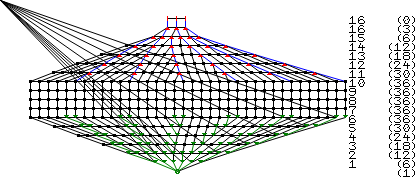
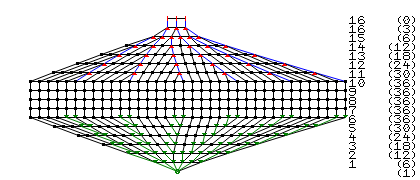
fixed allocation issues...

diff --git a/main.cpp b/main.cpp
@@ -15,6 +15,16 @@
 
 #define LOG(fmt, ...) fprintf(stderr, "%s@%s:%d: " fmt "\n", __func__, __FILE__, __LINE__ __VA_OPT__(,) __VA_ARGS__);
 
+#define ACTUAL_TRAP_INSTRUCTION __asm("int3")
+// usage: DEBUGGER(if(x == 4));
+//   or:
+//        DEBUGGER(auto potato = get_potato(); if(potato.Invariant()));
+#define DEBUGGER(CODE) do{\
+    CODE { \
+        ACTUAL_TRAP_INSTRUCTION;\
+    } \
+}while(0)
+
 using namespace std::literals;
 
 static MapEntry connectingStitch;
@@ -165,6 +175,11 @@ struct Row
     size_t CountRenderable() {
         return std::accumulate(stitches.begin(), stitches.end(), size_t(0), [](size_t acc, decltype(stitches)::const_reference e) -> size_t {
                 return acc + e.puts * size_t(e.IsNormal() || e.IsSlipped() || e.IsBoundOff());
+                });
+    }
+    size_t CountLiterallyAllPuts() {
+        return std::accumulate(stitches.begin(), stitches.end(), size_t(0), [](size_t acc, decltype(stitches)::const_reference e) -> size_t {
+                return acc + e.puts;
                 });
     }
 };
@@ -379,7 +394,6 @@ int main(int argc, char* argv[])
     std::vector<Row> rows;
     // reversed = true means go left to right, = false means right to left
     bool reversed = true;
-    size_t longest = 0; // FIXME count this by reducing "puts"
     int rowNumber = 0;
     int sourceLineNumber = 1;
     size_t previousLineLength = 0;
@@ -425,7 +439,7 @@ int main(int argc, char* argv[])
 
         rows.push_back(ll);
         previousLineLength = thisLen;
-        if(ll.CountRenderable() > longest) longest = ll.CountRenderable();
+
     }
 
     LOG("Read %zd rows of stitching instructions", rows.size());
@@ -490,6 +504,14 @@ int main(int argc, char* argv[])
         previousLineLength = rows[i].CountStitchable();
     }
 
+
+    size_t longest = 0;
+    for(int i = 1; i < rows.size(); ++i) {
+        if(auto allPuts = rows[i].CountLiterallyAllPuts();
+                allPuts > longest)
+            longest = allPuts;
+    }
+
     LOG("Instructions (simplified):");
     LOG("   + &     increase area");
     LOG("   v .     decrease area");
@@ -523,6 +545,34 @@ int main(int argc, char* argv[])
     }
     LOG("");
 
+    LOG("Instructions:");
+    for(int i = 0; i < rows.size(); ++i)
+    {
+        auto& ll = rows[i];
+        fprintf(stderr, "%3d: %c   ", ll.number, ll.reversed ? '>' : ' ');
+        auto it = ll.First(!ll.reversed);
+        while(it) {
+            if(it->takes > it->puts) {
+                int i = 0;
+                for(; i < it->puts; ++i)  fprintf(stderr, "%s&", it->key);
+                for(; i < it->takes; ++i) fprintf(stderr, ". ");
+            }
+            else if(it->takes < it->puts) {
+                int i = 0;
+                for(; i < it->takes; ++i) fprintf(stderr, "%s&", it->key);
+                for(; i < it->puts; ++i)  fprintf(stderr, "%s ", it->key);
+            }
+            else if(it->IsSlipped()) { for(int i = 0; i < it->takes; ++i) fprintf(stderr, "%s ", it->key); }
+            else if(it->IsBoundOff()) { for(int i = 0; i < it->takes; ++i) fprintf(stderr, "%s ", it->key); }
+            else {
+                for(int i = 0; i < it->puts; ++i) fprintf(stderr, "%s ", it->key);
+            }
+            ++it;
+        }
+        fprintf(stderr, "\t%c\t\t(@%d)\n", ll.reversed ? ' ' : '<', ll.srcLine);
+    }
+    LOG("");
+
     LOG("Populating graph");
     // iterate over row stitches starting with logical coordinates (0,0)
     // for each new produced stitch, increase X coord by incr*9
@@ -537,7 +587,9 @@ int main(int argc, char* argv[])
     int previ = 0, previncr = +1;
     for(int rowy = 0; rowy < rows.size(); ++rowy)
     {
+        LOG("=============================");
         LOG("Populating row %d", rowy);
+        LOG("=============================");
         // current row
         auto& row = rows[rowy];
         int curri = 0;
@@ -548,11 +600,19 @@ int main(int argc, char* argv[])
         auto it = row.First(false);
         LOG("Direction: %s", row.reversed ? "left-to-right" : "right-to-left");
         while(it) {
-            LOG("Stitching at %d (%d x %d) which is a %s", curri, xcoord, ycoord, it->key);
+            LOG("-----------------------------------------------");
+            LOG("Stitching at curri=%d (%d x %d) which is a %s", curri, xcoord, ycoord, it->key);
             LOG("        it at=%d incr=%d", it.at, it.incr);
+            LOG("        xcoord = %d", xcoord);
+            if(rowy > 0) {
+                LOG("        The previous row has %d (or %d) stitches left, previ = %d", numDots[rowy - 1] - previ, previ, previ);
+            }
             if(it->IsNormal() || it->IsBoundOff()) {
+                LOG("    normal/boundoff");
                 for(int ii = 0; ii < it->puts; ++ii) {
+                    LOG("    putting %d at %d", ii, curri);
                     auto& dot = rowdots[curri++];
+                    LOG("         curri now past the end at %d", curri);
                     dot.x = xcoord;
                     dot.y = ycoord;
                     dot.skip = false;
@@ -564,14 +624,25 @@ int main(int argc, char* argv[])
                         if(ii == 0 && (it - 1)->IsNormal() || (it - 1)->IsBoundOff()
                                 || ii > 0)
                         {
-                            auto& prevDot = rowdots[curri - 2 - ii];
+                            //LOG("...connecting to %d", curri - 2 - ii);
+                            //auto& prevDot = rowdots[curri - 2 - ii];
+                            LOG("...connecting to %d", curri - 2);
+                            auto& prevDot = rowdots[curri - 2];
                             dot.lines.emplace_back();
                             dot.lines.back().dotRef = &prevDot;
+                            dot.lines.back().otherDotRef = nullptr;
                             dot.lines.back().lineInfo = &connectingStitch;
+                        }
+                        else
+                        {
+                            first = false;
+                            dot.disconnected = true;
+                            LOG("disconnected");
                         }
                     } else {
                         first = false;
                         dot.disconnected = true;
+                        LOG("disconnected");
                     }
 
                     // update xcoord
@@ -590,6 +661,8 @@ int main(int argc, char* argv[])
                 }
                 int lutme[9];
                 int lutprev[9] = { previ - previncr, previ };
+                memset(lutme, 255, 9 * sizeof(int));
+                memset(lutprev + 2, 255, 7 * sizeof(int));
                 if(rowy > 0) {
                     while(lutprev[0] >= 0 && lutprev[0] < numDots[rowy - 1] && !dots[rowy - 1][lutprev[0]].stitchRef->IsCountable()) { lutprev[0] = lutprev[0] + previncr; lutprev[1] = lutprev[0] + previncr; }
                     while(lutprev[1] >= 0 && lutprev[1] < numDots[rowy - 1] && !dots[rowy - 1][lutprev[1]].stitchRef->IsCountable()) lutprev[1] = lutprev[1] + previncr;
@@ -597,11 +670,13 @@ int main(int argc, char* argv[])
                 // for the previous row, we advance previ in our iterator's direction
                 for(int i = 0; i < it->takes; ++i) {
                     // skip boundoffs or skips or whatnot
-                    while(previ > 0 && previ < numDots[rowy - 1] - 1 && !dots[rowy - 1][previ].stitchRef->IsCountable()) previ = previ + previncr;
+                    while(previ >= 0 && previ < numDots[rowy - 1] && !dots[rowy - 1][previ].stitchRef->IsCountable()) previ = previ + previncr;
                     lutprev[i] = previ;
+                    LOG("    taking %d/%d at previ %d", i, it->takes, previ);
                     previ = previ + previncr;
                 }
                 if(it->takes > 0) {
+                    LOG("    adding one lutprev past-the-post");
                     lutprev[it->takes] = lutprev[it->takes - 1] + previncr;
                     if(rowy > 0) {
                         while(lutprev[it->takes] >= 0 && lutprev[it->takes] < numDots[rowy - 1] && !dots[rowy - 1][lutprev[it->takes]].stitchRef->IsCountable()) { lutprev[it->takes] = lutprev[it->takes] + previncr;}
@@ -612,22 +687,34 @@ int main(int argc, char* argv[])
                 for(int i = 0; i < it->puts; ++i) {
                     lutme[i] = curri - it->puts + i;
                 }
+                LOG("    lutme: %d %d %d %d ...", lutme[0], lutme[1], lutme[2], lutme[3]);
+                LOG("    lutprev: %d %d %d %d ...", lutprev[0], lutprev[1], lutprev[2], lutprev[3]);
 
+                LOG("     .....");
+                LOG("     Lining to previous row, per stitch map")
                 // construct lines to previous row
                 for(auto&& me : it->map) {
+                    LOG("     line: %d <= %d", me.dst, me.src);
                     auto& dstDot = rowdots[lutme[me.dst]];
                     dstDot.lines.emplace_back();
                     dstDot.lines.back().lineInfo = &me;
                     if(me.src != MapEntry::INBETWEEN) {
                         dstDot.lines.back().dotRef = dots[rowy - 1][lutprev[me.src]].dotRef;
+                        dstDot.lines.back().otherDotRef = nullptr;
+                        LOG("         which is a %s", dstDot.lines.back().dotRef->stitchRef->key);
                     } else {
                         LOG("INBETWEEN");
                         dstDot.lines.back().dotRef = dots[rowy - 1][lutprev[0]].dotRef;
                         dstDot.lines.back().otherDotRef = dots[rowy - 1][lutprev[1]].dotRef;
+                        dstDot.connectedTo.push_back(dstDot.lines.back().dotRef);
+                        dstDot.connectedTo.push_back(dstDot.lines.back().otherDotRef);
                     }
-                    LOG("Stitching (%d,%d) -> (%d,%d)", rowy, lutme[me.dst], rowy-1, lutprev[me.src]);
+                    LOG("     Stitching (%d,%d) -> (%d,%d)", rowy, lutme[me.dst], rowy-1, lutprev[me.src]);
+                    LOG("    ....");
                 }
 
+                LOG("     .....");
+                LOG("     Connecting to previous row, per takes and puts");
                 // connect to previous row
                 for(int i = 0; i < it->puts; ++i) {
                     auto& dot = rowdots[lutme[i]];
@@ -636,9 +723,16 @@ int main(int argc, char* argv[])
                         LOG("Linking (%d,%d) -> (%d,%d)", rowy, lutme[i], rowy-1, lutprev[j]);
                     }
                 }
+                LOG("     .....");
             } else if(it->IsSlipped()) {
+                LOG("    slipped/padding");
                 // take from previous row
                 for(int i = 0; i < it->takes; ++i) {
+                    LOG("    taking %d at %d", i, curri);
+                    if(curri >= rowdots.size()) {
+                        LOG("curri = %d   rowdots.size() = %zd", curri, rowdots.size());
+                        abort();
+                    }
                     auto& dot = rowdots[curri++];
                     dot.x = xcoord;
                     dot.y = ycoord;
@@ -649,6 +743,8 @@ int main(int argc, char* argv[])
                         // skip bindoffs or skips
                         while(!dots[rowy - 1][previ].stitchRef->IsCountable()) previ = previ + previncr;
                         dot.dotRef = dots[rowy - 1][previ].dotRef;
+                        LOG("    connecting to previ %d", previ);
+                        LOG("         which is a %s", dot.dotRef->stitchRef->key);
                         previ = previ + previncr;
                     } else {
                         dot.dotRef = &dot;
@@ -670,6 +766,7 @@ int main(int argc, char* argv[])
         // update previous row iterator;
         if(rowy < rows.size() - 1) {
             if(rows[rowy].turn) {
+                LOG("we turn!");
                 previ = curri - 1;
                 previncr = -1;
                 // skip bindoffs
@@ -677,6 +774,7 @@ int main(int argc, char* argv[])
                 xcoord = dots[rowy][numDots[rowy] - 1].x;
                 dxcoord = -dxcoord;
             } else {
+                LOG("we go around!");
                 xcoord = 0;
                 previ = 0;
                 previncr = +1;
@@ -839,6 +937,7 @@ int main(int argc, char* argv[])
     exit(0);
 
 
+#if 0
     // TODO new code above this line, purge remaining dead code
     //auto hcanvas = initCanvas(3 * 9 + longest * 9 + 3 * 9 + 5 * 9, (rows.size() + 3) * 9);
 
@@ -972,4 +1071,5 @@ int main(int argc, char* argv[])
     } // for each line
 
     return 0;
+#endif
 }

diff --git a/stitches.h b/stitches.h
@@ -49,7 +49,6 @@ static std::vector<Stitch> STITCHES {
             "-", "(blank)", Stitch::P,
             1, 1,
         },
-#if 0
             // TODO support breaking (for vertical holes, split back, etc)
             // however, this requires some shenanigans in the layouting code
             // as separate sections don't have a stitch between them to pull them,
@@ -59,7 +58,6 @@ static std::vector<Stitch> STITCHES {
             "/", "(break; unconnected to previous stitch)", Stitch::BREAK,
             0, 0,
         },
-#endif
         {
             "pu", "pick up / slip", Stitch::N,
             1, 1,

diff --git a/samples/README.md b/samples/README.md
@@ -26,3 +26,41 @@ ch 1 turn
 
 ![samples/ball.png](ball.png)
 
+# edge
+
+```
+- 5 co 8 turn
+1: pu 1 k 2 yo 1 k2tog 1 k 1 yo 2 k 2 - 3 turn
+2: - 3 pu 1 k 2 p 1 k 3 yo 1 k2tog 1 k 1 turn
+3: pu 1 k 2 yo 1 k2tog 1 k 5 - 3 turn
+4: - 3 pu 1 k 6 yo 1 k2tog 1 k 1 turn
+5: pu 1 k 2 yo 1 k2tog 1 k 1 yo 2 k2tog 1 yo 2 k 2 turn
+6: pu 1 k 2 p 1 k 2 p 1 k 3 yo 1 k2tog 1 k 1 turn
+7: pu 1 k 2 yo 1 k2tog 1 k 8 turn
+8: bo 5 pu 1 k 4 yo 1 k2tog 1 k 1 turn
+
+second rep:
+pu 1 k 2 yo 1 k2tog 1 k 1 yo 2 k 2 - 3 turn
+- 3 pu 1 k 2 p 1 k 3 yo 1 k2tog 1 k 1 turn
+pu 1 k 2 yo 1 k2tog 1 k 5 - 3 turn
+- 3 pu 1 k 6 yo 1 k2tog 1 k 1 turn
+pu 1 k 2 yo 1 k2tog 1 k 1 yo 2 k2tog 1 yo 2 k 2 turn
+pu 1 k 2 p 1 k 2 p 1 k 3 yo 1 k2tog 1 k 1 turn
+pu 1 k 2 yo 1 k2tog 1 k 8 turn
+bo 5 pu 1 k 4 yo 1 k2tog 1 k 1 turn
+
+third rep:
+pu 1 k 2 yo 1 k2tog 1 k 1 yo 2 k 2 - 3 turn
+- 3 pu 1 k 2 p 1 k 3 yo 1 k2tog 1 k 1 turn
+pu 1 k 2 yo 1 k2tog 1 k 5 - 3 turn
+- 3 pu 1 k 6 yo 1 k2tog 1 k 1 turn
+pu 1 k 2 yo 1 k2tog 1 k 1 yo 2 k2tog 1 yo 2 k 2 turn
+pu 1 k 2 p 1 k 2 p 1 k 3 yo 1 k2tog 1 k 1 turn
+pu 1 k 2 yo 1 k2tog 1 k 8 turn
+bo 5 pu 1 k 4 yo 1 k2tog 1 k 1 turn
+
+bo 8
+```
+
+![samples/edge.png](edge.png)
+
